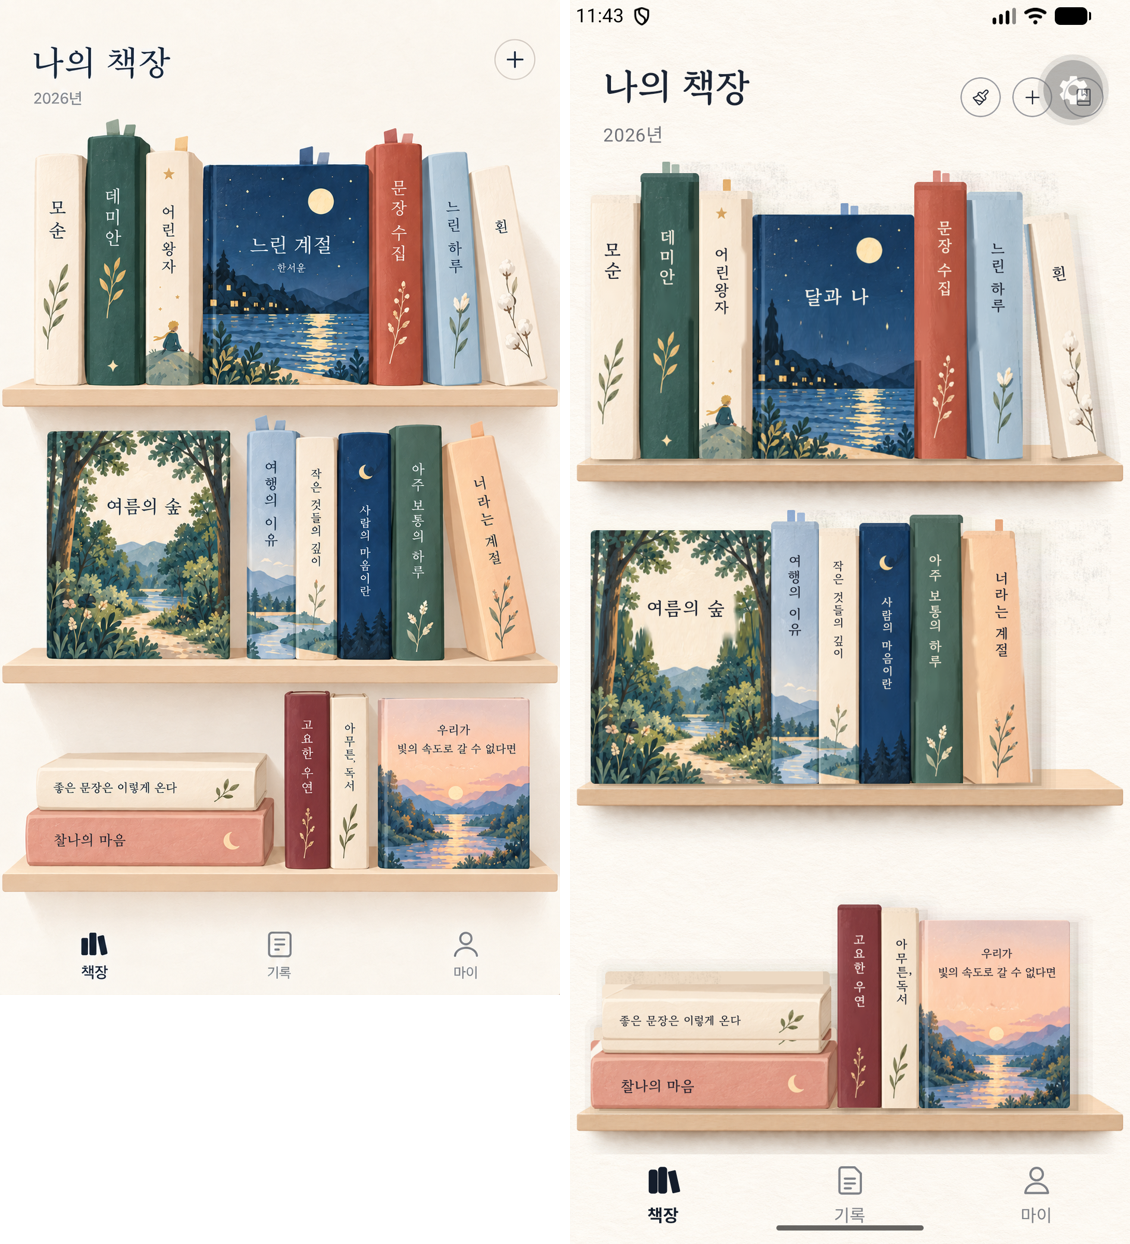
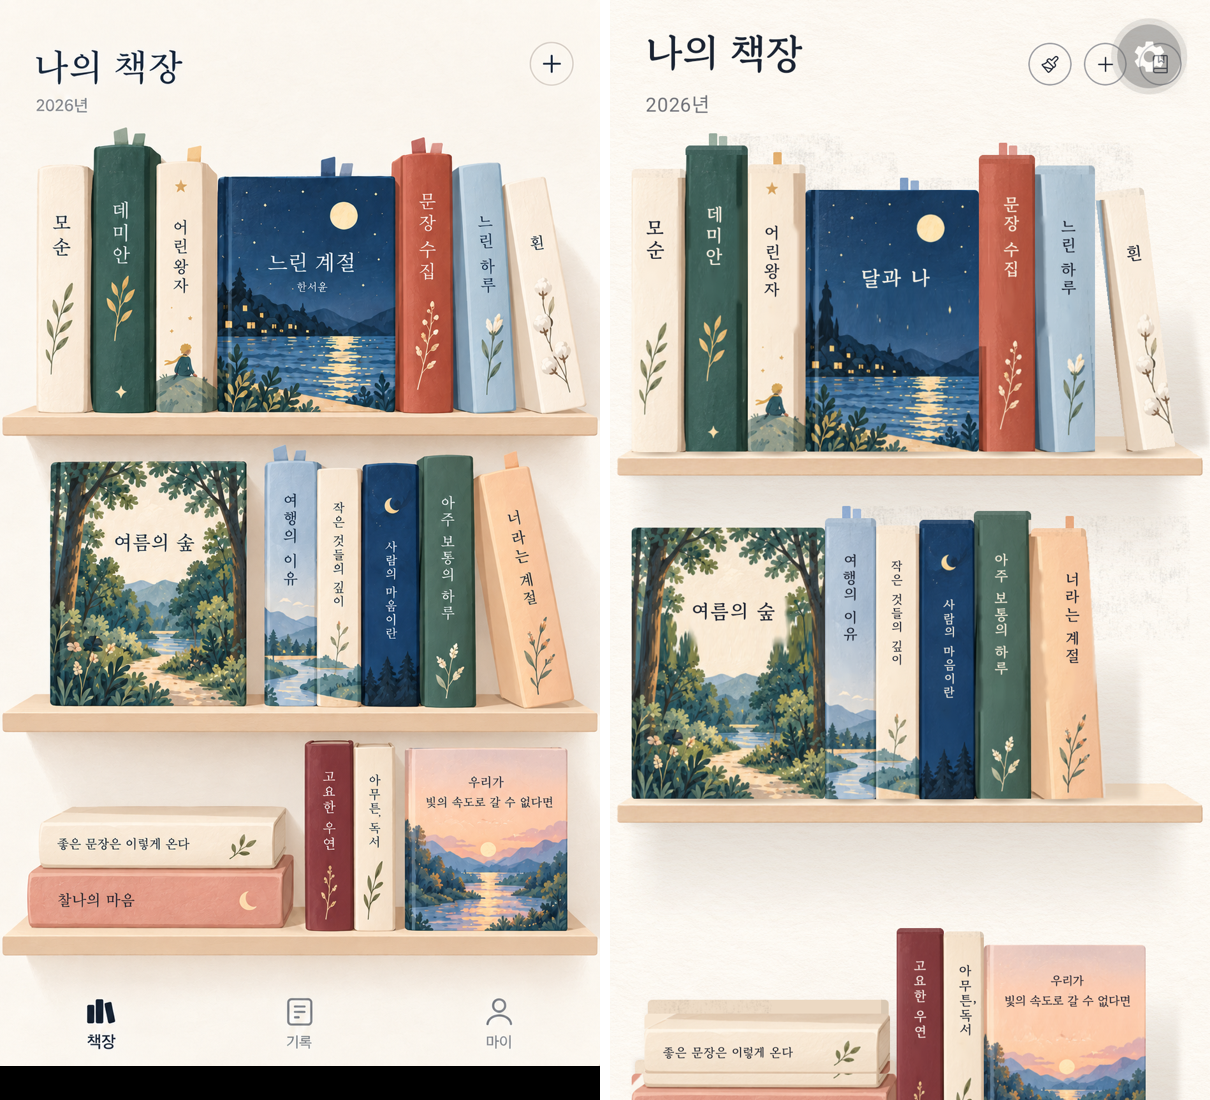
책 그림자 가우시안 블러로 시안처럼, 선반 그림자 재조정

diff --git a/app/src/ui/shelf/ShelfShadows.tsx b/app/src/ui/shelf/ShelfShadows.tsx
@@ -1,9 +1,9 @@
 // 외부 그림자. 책과 함께 회전하는 부모 밖(선반 좌표)에서 그려서, 기울어진 책도 그림자는 화면 기준 오른쪽 아래로 떨어진다.
 // 플랫폼 그림자 API 대신 SVG 도형을 써서 iOS/Android 모양을 맞춘다. 터치·점유 폭에는 포함하지 않는다.
-// 시안: 벽에 떨어지는 그림자는 바닥 쪽이 가장 진하고(밝기 약 -25%) 위로 갈수록 옅다. 색은 따뜻한 갈색.
+// 시안: 책 오른쪽 벽에 넓게 흐린 그림자. 바닥 쪽이 진하고(밝기 -20~30) 위로 사라진다. 색은 따뜻한 갈색. 가우시안 블러(SVG 필터).
 import { memo, useId } from 'react';
 import { StyleSheet } from 'react-native';
-import Svg, { ClipPath, Defs, Ellipse, G, LinearGradient, Polygon, RadialGradient, Rect, Stop } from 'react-native-svg';
+import Svg, { ClipPath, Defs, Ellipse, FeGaussianBlur, Filter, G, LinearGradient, Polygon, RadialGradient, Rect, Stop } from 'react-native-svg';
 
 import { DESIGN_WIDTH, SHELF } from '@/domain/geometry';
 import type { BookFrame, Point } from '@/domain/shelf-scene';
@@ -24,13 +24,36 @@ export function contactOf(poly: Point[]) {
   return { cx: flat ? (lo + hi) / 2 : ((lo + hi) / 2) * 0.4 + a.x * 0.6, half: (hi - lo) / 2 };
 }
 
+// 볼록 껍질(모노톤 체인). 책 윤곽과 오른쪽으로 옮긴 윤곽을 합친 '끌린 그림자' 모양을 만든다.
+export function hull(points: Point[]): Point[] {
+  const p = [...points].sort((a, b) => a.x - b.x || a.y - b.y);
+  const cross = (o: Point, a: Point, b: Point) => (a.x - o.x) * (b.y - o.y) - (a.y - o.y) * (b.x - o.x);
+  const lower: Point[] = [];
+  for (const q of p) {
+    while (lower.length >= 2 && cross(lower[lower.length - 2], lower[lower.length - 1], q) <= 0) lower.pop();
+    lower.push(q);
+  }
+  const upper: Point[] = [];
+  for (const q of [...p].reverse()) {
+    while (upper.length >= 2 && cross(upper[upper.length - 2], upper[upper.length - 1], q) <= 0) upper.pop();
+    upper.push(q);
+  }
+  return [...lower.slice(0, -1), ...upper.slice(0, -1)];
+}
+
+export function castShape(poly: Point[], dx: number, dy: number, sweep: number) {
+  const moved = poly.map((p) => ({ x: p.x + dx, y: p.y + dy }));
+  return hull([...moved, ...moved.map((p) => ({ x: p.x + sweep, y: p.y }))]);
+}
+
 export const ShelfShadows = memo(function ShelfShadows({ frames, scale: s, hiddenId, height, clear }: Props) {
   const id = useId().replace(/[^a-zA-Z0-9]/g, '');
   const X = (x: number) => (SHELF.sideMargin + x) * s;
   const Y = (y: number) => (clear + y - FLOOR) * s;
   const floorY = clear * s;
   const visible = frames.filter((f) => f.bookId !== hiddenId);
-  const { dx, dy, opacity, blurSteps } = shadow.cast;
+  const { dx, dy, sweep, opacity, blur, fade } = shadow.cast;
+  const fadeTop = fade[fade.length - 1][0];
   return (
     <Svg style={StyleSheet.absoluteFill} width={DESIGN_WIDTH * s} height={height} pointerEvents="none">
       <Defs>
@@ -38,28 +61,26 @@ export const ShelfShadows = memo(function ShelfShadows({ frames, scale: s, hidde
           <Stop offset="0" stopColor={colors.shadow} stopOpacity={shadow.contact.opacity} />
           <Stop offset="1" stopColor={colors.shadow} stopOpacity={0} />
         </RadialGradient>
-        {/* 위는 옅고 바닥 쪽이 진한 그림자 */}
-        <LinearGradient id={`${id}cast`} x1="0" y1="0" x2="0" y2={floorY} gradientUnits="userSpaceOnUse">
-          <Stop offset="0" stopColor={colors.shadow} stopOpacity={opacity * 0.12} />
-          <Stop offset="0.6" stopColor={colors.shadow} stopOpacity={opacity * 0.6} />
-          <Stop offset="1" stopColor={colors.shadow} stopOpacity={opacity} />
+        {/* 바닥 쪽이 진하고 위로 옅어지는 그림자(theme.shadow.cast.fade) */}
+        <LinearGradient id={`${id}cast`} x1="0" y1={floorY - fadeTop * s} x2="0" y2={floorY} gradientUnits="userSpaceOnUse">
+          {[...fade].reverse().map(([h, k]) => (
+            <Stop key={h} offset={1 - h / fadeTop} stopColor={colors.shadow} stopOpacity={opacity * k} />
+          ))}
         </LinearGradient>
+        {/* 진짜 가우시안 블러. 영역을 캔버스 전체로 잡아 흐린 가장자리가 잘리지 않게 한다 */}
+        <Filter id={`${id}blur`} x={0} y={0} width={DESIGN_WIDTH * s} height={height} filterUnits="userSpaceOnUse">
+          <FeGaussianBlur stdDeviation={blur * s} />
+        </Filter>
         <ClipPath id={`${id}clip`}>
           <Rect x={0} y={0} width={DESIGN_WIDTH * s} height={floorY + SHELF.lip * s} />
         </ClipPath>
       </Defs>
       <G clipPath={`url(#${id}clip)`}>
-        {visible.map((f) => {
-          const pts = f.poly.map((p) => `${X(p.x + dx)},${Y(p.y + dy)}`).join(' ');
-          return (
-            <G key={f.bookId}>
-              {blurSteps.map((w, i) => (
-                <Polygon key={i} points={pts} fill="none" stroke={`url(#${id}cast)`} strokeOpacity={1 / (blurSteps.length + 1)} strokeWidth={w * s} strokeLinejoin="round" />
-              ))}
-              <Polygon points={pts} fill={`url(#${id}cast)`} fillOpacity={0.8} />
-            </G>
-          );
-        })}
+        <G filter={`url(#${id}blur)`}>
+          {visible.map((f) => (
+            <Polygon key={f.bookId} points={castShape(f.poly, dx, dy, sweep).map((p) => `${X(p.x)},${Y(p.y)}`).join(' ')} fill={`url(#${id}cast)`} />
+          ))}
+        </G>
       </G>
       {visible.map((f) => {
         if (f.stackIndex > 0) return null;

diff --git a/app/src/ui/theme.ts b/app/src/ui/theme.ts
@@ -46,37 +46,47 @@ export const typeScale = {
 // 그림자 토큰. 빛은 화면 좌상단, 외부 그림자는 화면 좌표 기준 오른쪽 아래.
 export const shadow = {
   contact: { opacity: 0.34, height: 3.2, spread: 2.5 }, // 선반에 닿는 좁은 그림자
-  cast: { dx: 6, dy: 1.5, opacity: 0.24, blurSteps: [20, 13, 7, 3] }, // 뒤 벽에 떨어지는 넓고 흐린 그림자(바닥 쪽 최대)
+  // 책이 뒤 벽에 드리우는 그림자: 빛이 왼쪽 위에서 오므로 책 윤곽을 오른쪽으로 sweep만큼 끌어 늘리고(dx 이동) 가우시안 블러(blur=표준편차 DU).
+  // 시안 측정(마지막 책 오른쪽 벽, 바닥에서 위로 3/10/20/35/50/75/100DU): 29/28/27/24/23/16/1 → 화면 끝까지 거의 평평.
+  // fade: 바닥에서 위로 [높이 DU, 불투명도 배율].
+  cast: {
+    dx: 2,
+    dy: 0,
+    sweep: 20,
+    opacity: 0.17,
+    blur: 6,
+    fade: [[0, 1], [50, 0.8], [75, 0.55], [100, 0]] as [number, number][],
+  },
   lifted: { dx: 12, dy: 14, opacity: 0.16, scale: 1.06 }, // 드래그 중 들린 느낌
   plank: { opacity: 0.3, height: 20 }, // 선반 판 아래 벽 그림자
 };
 
 // 선반 바깥 그림자(선반 PNG에서 분리, ShelfShadow가 그린다). 단위 DU(폭 390 기준), 불투명도 0~1.
-// 시안 측정(벽 밝기 차, 판 아래 1/3/6/10/15/20/30/40DU): 가운데~오른쪽 26/24/21/17.5/13.5/9/3/2, 왼쪽 끝 20/17/8/0.
-// → 판 전체 폭의 짧고 진한 접촉 그림자 + 왼쪽 끝을 비운 채 40DU까지 서서히 사라지는 퍼짐 그림자.
+// 시안 측정(벽 밝기 차, 판 아래 0→25DU): 1·2번 선반 60→32, 3번 선반 30→11, 양 끝(왼쪽 20DU·오른쪽 7DU 안쪽)은 가늘어져 0.
+// → 짧고 진한 접촉 그림자 + 70DU까지 천천히 사라지는 퍼짐 그림자, 둘 다 양 끝을 넓게 흐린다.
 // blur: 좌우 끝 흐림 폭. offsetX/offsetY: 판 아래 끝 기준 이동. insetLeft/insetRight: 판 폭에서 줄이는 양(음수면 넓힘).
 // stops: 세로 감쇠 곡선 [위치(0=위,1=아래), 불투명도 배율].
 export const shelfShadow = {
   color: '#5A3E26',
   contact: {
-    opacity: 0.11,
-    height: 8,
-    blur: 4,
-    offsetX: 1,
+    opacity: 0.1,
+    height: 6,
+    blur: 10,
+    offsetX: 0,
     offsetY: -0.5,
-    insetLeft: 0,
-    insetRight: 0,
+    insetLeft: 2,
+    insetRight: 4,
     stops: [[0, 1], [0.45, 0.5], [1, 0]] as [number, number][],
   },
   ambient: {
-    opacity: 0.1,
-    height: 40,
-    blur: 16,
-    offsetX: 5,
+    opacity: 0.14,
+    height: 70,
+    blur: 24,
+    offsetX: 0,
     offsetY: -0.5,
-    insetLeft: 12,
-    insetRight: -4,
-    stops: [[0, 0.4], [0.15, 1], [0.5, 0.5], [0.75, 0.2], [1, 0]] as [number, number][],
+    insetLeft: 6,
+    insetRight: 8,
+    stops: [[0, 0.7], [0.1, 1], [0.35, 0.7], [0.6, 0.4], [0.8, 0.15], [1, 0]] as [number, number][],
   },
 };
 

diff --git a/app/src/ui/shelf/DragOverlay.tsx b/app/src/ui/shelf/DragOverlay.tsx
@@ -2,7 +2,7 @@
 // 들린 느낌: 살짝 확대 + 접촉 그림자 없이 넓고 흐린 그림자.
 import { StyleSheet, View } from 'react-native';
 import Animated, { type SharedValue, useAnimatedStyle } from 'react-native-reanimated';
-import Svg, { Polygon } from 'react-native-svg';
+import Svg, { Defs, FeGaussianBlur, Filter, Polygon } from 'react-native-svg';
 
 import type { BookFrame } from '@/domain/shelf-scene';
 import type { Book } from '@/domain/types';
@@ -43,10 +43,12 @@ export function DragOverlay({ book, frame, scale: s, x, y, lift }: Props) {
       style={[styles.root, { width: box.width * s, height: box.height * s }, style]}>
       <Animated.View style={[{ position: 'absolute', left: -PAD, top: -PAD }, shadowStyle]}>
         <Svg width={box.width * s + PAD * 2 + shadow.lifted.dx * s} height={box.height * s + PAD * 2 + shadow.lifted.dy * s}>
-          {[26, 19, 13, 8, 4].map((w, i) => (
-            <Polygon key={i} points={pts} fill="none" stroke={colors.shadow} strokeOpacity={shadow.lifted.opacity / 5} strokeWidth={w * s} strokeLinejoin="round" />
-          ))}
-          <Polygon points={pts} fill={colors.shadow} fillOpacity={shadow.lifted.opacity * 0.8} />
+          <Defs>
+            <Filter id="lift" x={0} y={0} width={box.width * s + PAD * 2 + shadow.lifted.dx * s} height={box.height * s + PAD * 2 + shadow.lifted.dy * s} filterUnits="userSpaceOnUse">
+              <FeGaussianBlur stdDeviation={7 * s} />
+            </Filter>
+          </Defs>
+          <Polygon points={pts} fill={colors.shadow} fillOpacity={shadow.lifted.opacity * 1.4} filter="url(#lift)" />
         </Svg>
       </Animated.View>
       <View

diff --git a/app/src/domain/__tests__/shelf-scene.test.ts b/app/src/domain/__tests__/shelf-scene.test.ts
@@ -45,3 +45,21 @@ describe('선반 장면', () => {
     expect(hitTest(frames, { x: 340, y: 10 })).toBeNull();
   });
 });
+
+import { castShape, hull } from '../../ui/shelf/ShelfShadows';
+
+describe('책 그림자 모양', () => {
+  it('책 윤곽을 오른쪽으로 끌어 늘린 볼록 껍질', () => {
+    const rect = [
+      { x: 0, y: 0 },
+      { x: 10, y: 0 },
+      { x: 10, y: 50 },
+      { x: 0, y: 50 },
+    ];
+    const s = castShape(rect, 2, 0, 20);
+    const xs = s.map((p) => p.x);
+    expect(Math.min(...xs)).toBe(2);
+    expect(Math.max(...xs)).toBe(32);
+    expect(hull([...rect, { x: 5, y: 25 }])).toHaveLength(4);
+  });
+});
